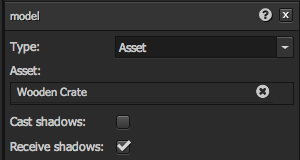
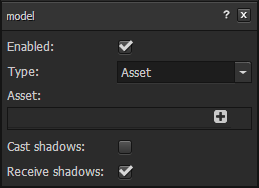
Updated all component docs.

diff --git a/content/user-manual/packs/entities/components/rigidbody.md b/content/user-manual/packs/entities/components/rigidbody.md
@@ -4,9 +4,12 @@ template: page.tmpl.html
 skip: true
 ---
 
-The 'rigidbody' component enables an entity to participate in the scene's physics simulation. This allows the movement of an entity to be simulated realistically.
+The 'rigidbody' component enables an entity to participate in the scene's physics simulation. This allows the movement of an entity to be simulated realistically. The component interface dynamically displays different attributes based on the 'Type' attribute.
 
-![Component Interface](/images/platform/component_rigidbody.png)
+#### Static
+![Component Interface](/images/platform/component_rigidbodystatic.png)
+#### Dynamic (and Kinematic)
+![Component Interface](/images/platform/component_rigidbodydynamic.png)
 
 Note that you must add a [collision component](/tools/designer/components/collision.html) in order to define the shape of the rigid body. Otherwise, the rigidbody component has no effect and will not participate in the physics simulation.
 
@@ -16,6 +19,7 @@ Note that you must add a [collision component](/tools/designer/components/collis
     <col class="property-name"></col>
     <col class="property-description"></col>
     <tr><th>Property</th><th>Description</th></tr>
+    <tr><td>Enabled</td><td>If selected and if the component has a sibling collision component, the rigid body will participate in the physics simulation.</td></tr>
     <tr><td>Type</td><td>The type of the body:<br><ul><li>Static</li><li>Dynamic</li><li>Kinematic</li></ul></td></tr>
     <tr><td>Mass</td><td>The mass of the body. If world units in your scene are meters, units for mass is kilograms.</td></tr>
     <tr><td>Linear Damping</td><td>Specifies the proportion of linear velocity is that lost by the body every second.</td></tr>

diff --git a/content/user-manual/packs/entities/components/collision.md b/content/user-manual/packs/entities/components/collision.md
@@ -12,6 +12,8 @@ The 'collision' component assigns a collision volume to the entity. The componen
 ![Component Interface](/images/platform/component_collisionsphere.png)
 #### Capsule
 ![Component Interface](/images/platform/component_collisioncapsule.png)
+#### Cylinder
+![Component Interface](/images/platform/component_collisioncylinder.png)
 #### Mesh
 ![Component Interface](/images/platform/component_collisionmesh.png)
 
@@ -23,6 +25,7 @@ If the entity also has a rigidbody component, the collision component determines
     <col class="property-name"></col>
     <col class="property-description"></col>
     <tr><th>Property</th><th>Description</th></tr>
+    <tr><td>Enabled</td><td>If selected and if the component is a trigger volume (because it has no sibling rigidbody component), the trigger volume will be enabled. Likewise, if the component does have a sibling rigidbody component, the rigidbody will be enabled.</td></tr>
     <tr><td>Type</td><td>The type of collision primitive. Can be:<ul><li>Box</li><li>Sphere</li><li>Capsule</li><li>Mesh</li></ul></td></tr>
     <tr><td>Half Extents</td><td>Box only. The half-extents of the collision box. This is a 3-dimensional vector: local space half-width, half-height, and half-depth.</td></tr>
     <tr><td>Axis</td><td>Capsule only. Aligns the capsule with the local-space X, Y or Z axis of the entity.</td></tr>

diff --git a/content/user-manual/packs/entities/components/script.md b/content/user-manual/packs/entities/components/script.md
@@ -8,13 +8,15 @@ The 'script' component enables an entity to run user-supplied scripts. In this w
 
 ![Component Interface](/images/platform/component_script.png)
 
+To assign a script. type its name into the URL box. For example, if you want to create a script called car.js, type car.js into the box and hit ENTER. This will create a script block below. If you click the hyperlinked script name, it will open in the PlayCanvas Script Editor. If you type a name of an existing script, autocomplete should activate and again, just press ENTER to add the script to the component.
+
 ## Properties
 
 <table class="table table-striped">
     <col class="property-name"></col>
     <col class="property-description"></col>
     <tr><th>Property</th><th>Description</th></tr>
-    <tr><td>URLs</td><td>The scripts that are executed for this entity. A .js extension is enforced. Absolute URLs are used for scripts hosted on servers other than playcanvas.com, otherwise, relative URLs are used.</td></tr>
+    <tr><td>Enabled</td><td>If checked, all of the assigned scripts will have their update functions called every frame.</td></tr>
 </table>
 
 ## Scripting Interface

diff --git a/content/user-manual/packs/entities/components/animation.md b/content/user-manual/packs/entities/components/animation.md
@@ -14,8 +14,9 @@ The 'animation' component enables an entity to specify which animations can be a
     <col class="property-name"></col>
     <col class="property-description"></col>
     <tr><th>Property</th><th>Description</th></tr>
+    <tr><td>Enabled</td><td>If checked, the component will play the animation.</td></tr>
     <tr><td>Asset</td><td>The animation assets that can be utilized by this entity. Multiple animations can be assigned via the picker control.</td></tr>
-    <tr><td>Speed</td><td>A multiplier for animation playback speed. 0 will freeze animation playback, and 1 represents the normal playback speed of the asset.</td></tr>
+    <tr><td>Speed Factor</td><td>A multiplier for animation playback speed. 0 will freeze animation playback, and 1 represents the normal playback speed of the asset.</td></tr>
     <tr><td>Loop</td><td>If checked, the animation will continue to loop back to the start on completion. Otherwise, the animation will come to a stop on its final frame.</td></tr>
     <tr><td>Activate</td><td>If checked, the component will start playing the animation on load.</td></tr>
 </table>

diff --git a/content/user-manual/packs/entities/components/skybox.md b/content/user-manual/packs/entities/components/skybox.md
@@ -4,7 +4,7 @@ template: page.tmpl.html
 skip: true
 ---
 
-The 'skybox' component attaches a skybox to an entity.
+The 'skybox' component enables a skybox in the scene.
 
 ![Component Interface](/images/platform/component_skybox.png)
 
@@ -14,6 +14,7 @@ The 'skybox' component attaches a skybox to an entity.
     <col class="property-name"></col>
     <col class="property-description"></col>
     <tr><th>Property</th><th>Description</th></tr>
+    <tr><td>Enabled</td><td>If checked, the component will render the skybox every frame.</td></tr>
     <tr><td>POSX</td><td>The image asset to use for the world-space positive X face of the skybox.</td></tr>
     <tr><td>NEGX</td><td>The image asset to use for the world-space negative X face of the skybox.</td></tr>
     <tr><td>POSY</td><td>The image asset to use for the world-space positive Y face of the skybox.</td></tr>

diff --git a/content/user-manual/packs/entities/components/model.md b/content/user-manual/packs/entities/components/model.md
@@ -14,6 +14,7 @@ The 'model' component enables an entity to render a primitive shape or a model a
     <col class="property-name"></col>
     <col class="property-description"></col>
     <tr><th>Property</th><th>Description</th></tr>
+    <tr><td>Enabled</td><td>If checked, the model will be added to the scene and rendered.</td></tr>
     <tr><td>Type</td><td>The type of the model to be rendered. Can be:<ul><li>Asset</li><li>Box</li><li>Capsule</li><li>Sphere</li><li>Cylinder</li><li>Cone</li></ul></td></tr>
     <tr><td>Asset</td><td>The model asset rendered by this model component. Only applies to models of type 'asset'. Only a single model can be rendered per model component.</td></tr>
     <tr><td>Cast Shadows</td><td>If enabled, the model rendered by this component will cast shadows onto other models in the scene.</td></tr>

diff --git a/content/user-manual/packs/entities/components/audiosource.md b/content/user-manual/packs/entities/components/audiosource.md
@@ -14,7 +14,7 @@ The 'audiosource' component specifies the listener's position in 3D space. All 3
     <col class="property-name"></col>
     <col class="property-description"></col>
     <tr><th>Property</th><th>Description</th></tr>
-    <tr><td>Enabled</td><td>If false, no audio will be placed.</td></tr>
+    <tr><td>Enabled</td><td>If checked, the component will play assigned audio assets.</td></tr>
     <tr><td>Assets</td><td>The audio assets that can be played from this audio source. Multiple audio assets can be specified by the picker control.</td></tr>
     <tr><td>Volume</td><td>The volume of the audio assets played back by the component.</td></tr>
     <tr><td>Pitch</td><td>The modifier to playback the audio at. A value of 1 means the audio is played back at the original pitch.</td></tr>

diff --git a/content/user-manual/packs/entities/components/light.md b/content/user-manual/packs/entities/components/light.md
@@ -19,7 +19,7 @@ The 'light' component attaches a dynamic light source to the Entity. The 'Type' 
     <col class="property-name"></col>
     <col class="property-description"></col>
     <tr><th>Property</th><th>Description</th></tr>
-    <tr><td>Enable</td><td>If checked, the directional light will light the scene.</td></tr>
+    <tr><td>Enabled</td><td>If checked, the light will light the scene.</td></tr>
     <tr><td>Color</td><td>The color of the emitted light.</td></tr>
     <tr><td>Intensity</td><td>The intensity of the light that acts as a scalar value for the light's color. This value can exceed 1.</td></tr>
     <tr><td>Range</td><td>Point and Spot only. The distance from the spotlight source at which its contribution falls to zero.</td></tr>

diff --git a/content/user-manual/packs/entities/components/audiolistener.md b/content/user-manual/packs/entities/components/audiolistener.md
@@ -10,7 +10,12 @@ The 'audiolistener' component specifies the listener's position in 3D space. All
 
 ## Properties
 
-This component has no properties. It simply uses the entity's position in 3D space to determine the location of the listener.
+<table class="table table-striped">
+    <col class="property-name"></col>
+    <col class="property-description"></col>
+    <tr><th>Property</th><th>Description</th></tr>
+    <tr><td>Enabled</td><td>If checked, the component will act as the listener position for 3D sound effects.</td></tr>
+</table>
 
 ## Scripting Interface
 
